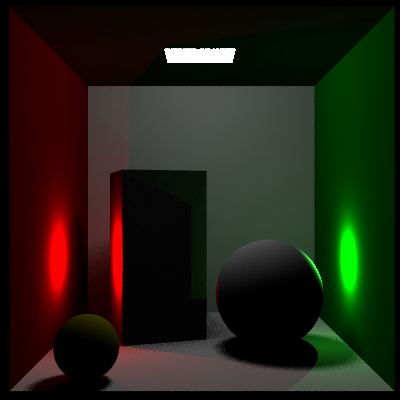
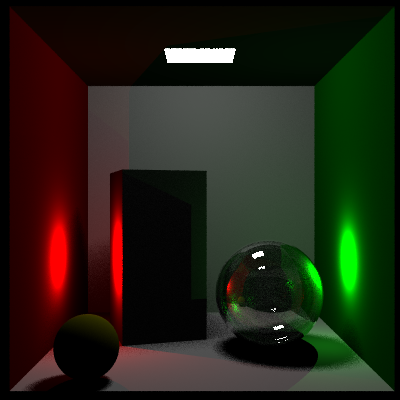
Fuzzy material added.

Changed region(s): [[0.54, 0.6, 0.81, 0.87]]

diff --git a/main/a_distributed.cpp b/main/a_distributed.cpp
@@ -18,96 +18,93 @@
 #include <rt/lights/arealight.h>
 
 #include <rt/lights/pointlight.h>
-#include <rt/groups/bvh.h>
 
 using namespace rt;
 
 namespace {
 
-void makeBox(Group* scene, const Point& aaa, const Vector& forward, const Vector& left, const Vector& up, CoordMapper* texMapper, Material* material) {
-    scene->add(new Quad(aaa, forward, left, texMapper, material));
-    scene->add(new Quad(aaa, forward, up, texMapper, material));
-    scene->add(new Quad(aaa, left, up, texMapper, material));
-    Point bbb = aaa + forward + left + up;
-    scene->add(new Quad(bbb, -forward, -left, texMapper, material));
-    scene->add(new Quad(bbb, -forward, -up, texMapper, material));
-    scene->add(new Quad(bbb, -left, -up, texMapper, material));
-}
+	void makeBox(Group* scene, const Point& aaa, const Vector& forward, const Vector& left, const Vector& up, CoordMapper* texMapper, Material* material) {
+		scene->add(new Quad(aaa, forward, left, texMapper, material));
+		scene->add(new Quad(aaa, forward, up, texMapper, material));
+		scene->add(new Quad(aaa, left, up, texMapper, material));
+		Point bbb = aaa + forward + left + up;
+		scene->add(new Quad(bbb, -forward, -left, texMapper, material));
+		scene->add(new Quad(bbb, -forward, -up, texMapper, material));
+		scene->add(new Quad(bbb, -left, -up, texMapper, material));
+	}
 
 
-void a9renderCornellbox(float scale, const char* filename, Camera* cam, Material* sphereMaterial, Material* floorMaterial, int numSamples=1) {
-    //Image img(400, 400);
-    Image img(400, 400);
-    World world;
-    // SimpleGroup* scene = new SimpleGroup();
-	BVH* scene = new BVH();
-    world.scene = scene;
+	void a9renderCornellbox(float scale, const char* filename, Camera* cam, Material* sphereMaterial, Material* floorMaterial, int numSamples = 1) {
+		Image img(400, 400);
+		World world;
+		SimpleGroup* scene = new SimpleGroup();
+		world.scene = scene;
 
-    Texture* redtex = new ConstantTexture(RGBColor(.7f,0.f,0.f));
-    Texture* greentex = new ConstantTexture(RGBColor(0.f,.7f,0.f));
-    Texture* yellowtex = new ConstantTexture(RGBColor(0.7f,.7f,0.f));
-    Texture* bluetex = new ConstantTexture(RGBColor(0.f,0.f,0.7f));
-    Texture* blacktex = new ConstantTexture(RGBColor::rep(0.0f));
-    Texture* whitetex = new ConstantTexture(RGBColor::rep(1.0f));
+		Texture* redtex = new ConstantTexture(RGBColor(.7f, 0.f, 0.f));
+		Texture* greentex = new ConstantTexture(RGBColor(0.f, .7f, 0.f));
+		Texture* yellowtex = new ConstantTexture(RGBColor(0.7f, .7f, 0.f));
+		Texture* bluetex = new ConstantTexture(RGBColor(0.f, 0.f, 0.7f));
+		Texture* blacktex = new ConstantTexture(RGBColor::rep(0.0f));
+		Texture* whitetex = new ConstantTexture(RGBColor::rep(1.0f));
 
-    Material* grey = new LambertianMaterial(blacktex, whitetex);
-    Material* yellowmat = new LambertianMaterial(blacktex, yellowtex);
-    Material* leftWallMaterial = new LambertianMaterial(blacktex, redtex);
-    Material* rightWallMaterial = new LambertianMaterial(blacktex, greentex);
-    
-    scene->add(new Quad(Point(000.f,000.f,000.f)*scale, Vector(550.f,000.f,000.f)*scale, Vector(000.f,000.f,560.f)*scale, nullptr, floorMaterial)); //floor
-    scene->add(new Quad(Point(550.f,550.f,000.f)*scale, Vector(-550.f,000.f,000.f)*scale, Vector(000.f,000.f,560.f)*scale, nullptr, grey)); //ceiling
-    scene->add(new Quad(Point(000.f,000.f,560.f)*scale, Vector(550.f,000.f,000.f)*scale, Vector(000.f,550.f,000.f)*scale, nullptr, grey)); //back wall
-    scene->add(new Quad(Point(000.f,000.f,000.f)*scale, Vector(000.f,000.f,560.f)*scale, Vector(000.f,550.f,000.f)*scale, nullptr, rightWallMaterial)); //right wall
-    scene->add(new Quad(Point(550.f,550.f,000.f)*scale, Vector(000.f,000.f,560.f)*scale, Vector(000.f,-550.f,000.f)*scale, nullptr, leftWallMaterial)); //left wall
+		Material* grey = new LambertianMaterial(blacktex, whitetex);
+		Material* yellowmat = new LambertianMaterial(blacktex, yellowtex);
+		Material* leftWallMaterial = new LambertianMaterial(blacktex, redtex);
+		Material* rightWallMaterial = new LambertianMaterial(blacktex, greentex);
 
-    scene->add(new Sphere(Point(150.0f, 100.0f, 240.0f)*scale, 99.0f*scale, nullptr, sphereMaterial));
-    scene->add(new Sphere(Point(450.0f, 50.0f, 50.0f)*scale, 49.0f*scale, nullptr, yellowmat));
 
-    //tall box
-    makeBox(scene, Point(265.f, 000.1f, 296.f)*scale, Vector(158.f, 000.f, -049.f)*scale, Vector(049.f, 000.f, 160.f)*scale, Vector(000.f, 330.f, 000.f)*scale, nullptr, grey);
 
-    //Lights
-    ConstantTexture* lightsrctex = new ConstantTexture(RGBColor::rep(25.0f));
-    Material* lightsource = new LambertianMaterial(lightsrctex, blacktex);
 
-    Quad* light = new Quad(Point(213*scale,549.99f*scale,227*scale), Vector(130*scale,0,0), Vector(0,0,105*scale), nullptr, lightsource);
-    AreaLight als(light);
-    world.light.push_back(&als);
-    scene->add(light);
-	//point light
-    world.light.push_back(new PointLight(Point(490*scale,159.99f*scale,279.5f*scale),RGBColor(40000.0f*scale*scale,0,0)));
-    world.light.push_back(new PointLight(Point(40*scale,159.99f*scale,249.5f*scale),RGBColor(5000.0f*scale*scale,30000.0f*scale*scale,5000.0f*scale*scale)));
-	scene->rebuildIndex();
+		scene->add(new Quad(Point(000.f, 000.f, 000.f)*scale, Vector(550.f, 000.f, 000.f)*scale, Vector(000.f, 000.f, 560.f)*scale, nullptr, floorMaterial)); //floor
+		scene->add(new Quad(Point(550.f, 550.f, 000.f)*scale, Vector(-550.f, 000.f, 000.f)*scale, Vector(000.f, 000.f, 560.f)*scale, nullptr, grey)); //ceiling
+		scene->add(new Quad(Point(000.f, 000.f, 560.f)*scale, Vector(550.f, 000.f, 000.f)*scale, Vector(000.f, 550.f, 000.f)*scale, nullptr, grey)); //back wall
+		scene->add(new Quad(Point(000.f, 000.f, 000.f)*scale, Vector(000.f, 000.f, 560.f)*scale, Vector(000.f, 550.f, 000.f)*scale, nullptr, rightWallMaterial)); //right wall
+		scene->add(new Quad(Point(550.f, 550.f, 000.f)*scale, Vector(000.f, 000.f, 560.f)*scale, Vector(000.f, -550.f, 000.f)*scale, nullptr, leftWallMaterial)); //left wall
 
-    RecursiveRayTracingIntegrator integrator(&world);
+		scene->add(new Sphere(Point(150.0f, 100.0f, 240.0f)*scale, 99.0f*scale, nullptr, sphereMaterial));
+		scene->add(new Sphere(Point(450.0f, 50.0f, 50.0f)*scale, 49.0f*scale, nullptr, yellowmat));
 
-    Renderer engine(cam, &integrator);
-    if (numSamples>1)
-        engine.setSamples(numSamples);
-    engine.render(img);
-    img.writePNG(filename);
-}
+		//tall box
+		makeBox(scene, Point(265.f, 000.1f, 296.f)*scale, Vector(158.f, 000.f, -049.f)*scale, Vector(049.f, 000.f, 160.f)*scale, Vector(000.f, 330.f, 000.f)*scale, nullptr, grey);
+
+		//Lights
+		ConstantTexture* lightsrctex = new ConstantTexture(RGBColor::rep(25.0f));
+		Material* lightsource = new LambertianMaterial(lightsrctex, blacktex);
+
+		Quad* light = new Quad(Point(213 * scale, 549.99f*scale, 227 * scale), Vector(130 * scale, 0, 0), Vector(0, 0, 105 * scale), nullptr, lightsource);
+		AreaLight als(light);
+		world.light.push_back(&als);
+		scene->add(light);
+
+		//point light
+		world.light.push_back(new PointLight(Point(490 * scale, 159.99f*scale, 279.5f*scale), RGBColor(40000.0f*scale*scale, 0, 0)));
+		world.light.push_back(new PointLight(Point(40 * scale, 159.99f*scale, 249.5f*scale), RGBColor(5000.0f*scale*scale, 30000.0f*scale*scale, 5000.0f*scale*scale)));
+
+		RecursiveRayTracingIntegrator integrator(&world);
+
+		Renderer engine(cam, &integrator);
+		if (numSamples>1)
+			engine.setSamples(numSamples);
+		engine.render(img);
+		img.writePNG(filename);
+	}
 
 }
 
 void a_distributed() {
-    PerspectiveCamera* cam = new PerspectiveCamera(Point(0.278f, 0.273f, -0.800f), Vector(0, 0, 1), Vector(0, 1, 0), 0.686f, 0.686f);
-    DOFPerspectiveCamera* dofcam = new DOFPerspectiveCamera(Point(0.278f, 0.273f, -0.8f), Vector(0, 0, 1), Vector(0, 1, 0), 0.686f, 0.686f, 1.025f, 0.045f);
+	PerspectiveCamera* cam = new PerspectiveCamera(Point(0.278f, 0.273f, -0.800f), Vector(0, 0, 1), Vector(0, 1, 0), 0.686f, 0.686f);
+	DOFPerspectiveCamera* dofcam = new DOFPerspectiveCamera(Point(0.278f, 0.273f, -0.8f), Vector(0, 0, 1), Vector(0, 1, 0), 0.686f, 0.686f, 1.025f, 0.045f);
 
-    Texture* blacktex = new ConstantTexture(RGBColor::rep(0.0f));
-    Texture* whitetex = new ConstantTexture(RGBColor::rep(1.0f));
-    Material* floorMaterial1 = new LambertianMaterial(blacktex, whitetex);
-    // Material* floorMaterial2 = new FuzzyMirrorMaterial(2.485f, 3.433f, 0.05f);
+	Texture* blacktex = new ConstantTexture(RGBColor::rep(0.0f));
+	Texture* whitetex = new ConstantTexture(RGBColor::rep(1.0f));
+	Material* floorMaterial1 = new LambertianMaterial(blacktex, whitetex);
+	Material* floorMaterial2 = new FuzzyMirrorMaterial(2.485f, 3.433f, 0.05f);
 
-    Material* sphereMaterial1 = floorMaterial1;
-    Material* sphereMaterial2 = new GlassMaterial(2.0f);
+	Material* sphereMaterial1 = floorMaterial1;
+	Material* sphereMaterial2 = new GlassMaterial(2.0f);
 
-
-    //a9renderCornellbox(0.001f, "a9-1.png", cam, sphereMaterial1, floorMaterial1, 30);
-    // /a9renderCornellbox(0.001f, "a9-2.png", cam, sphereMaterial2, floorMaterial2, 30);
-    a9renderCornellbox(0.001f, "a9-3.png", dofcam, sphereMaterial1, floorMaterial1, 30);
-
-    //a9renderCornellbox(0.001f, "a9-3.png", dofcam, sphereMaterial2, floorMaterial2, 30);
-    // a9renderCornellbox(0.001f, "a9-4.png", dofcam, sphereMaterial2, floorMaterial2, 1000);
+	a9renderCornellbox(0.001f, "a9-1.png", cam, sphereMaterial1, floorMaterial1, 30);
+	a9renderCornellbox(0.001f, "a9-2.png", cam, sphereMaterial2, floorMaterial2, 30);
+	a9renderCornellbox(0.001f, "a9-3.png", dofcam, sphereMaterial2, floorMaterial2, 30);
+	a9renderCornellbox(0.001f, "a9-4.png", dofcam, sphereMaterial2, floorMaterial2, 1000);
 }

diff --git a/rt/materials/fuzzymirror.cpp b/rt/materials/fuzzymirror.cpp
@@ -1,0 +1,56 @@
+#include "fuzzymirror.h"
+#include <core/scalar.h>
+#include <core/random.h>
+
+namespace rt
+{
+	FuzzyMirrorMaterial::FuzzyMirrorMaterial(float eta, float kappa, float fuzzyangle)
+	{
+		this->eta = eta;
+		this->kappa = kappa;
+		this->fuzzyangle = fuzzyangle;
+	}
+
+	RGBColor FuzzyMirrorMaterial::getReflectance(const Point & texPoint, const Vector & normal, const Vector & outDir, const Vector & inDir) const
+	{
+		float cosTheta = dot(normal.normalize(), inDir.normalize());
+		float rParallelSq = ((eta*eta + kappa*kappa) * cosTheta*cosTheta - 2 * eta*cosTheta + 1) / ((eta*eta + kappa*kappa) * cosTheta*cosTheta + 2 * eta*cosTheta + 1);
+		float rPerpendicularSq = ((eta*eta + kappa*kappa) - 2 * eta*cosTheta + cosTheta*cosTheta) / ((eta*eta + kappa*kappa) + 2 * eta*cosTheta + cosTheta*cosTheta);
+		float Fr = 0.5f * (rParallelSq + rPerpendicularSq);
+		return RGBColor(Fr, Fr, Fr); //grayscale
+	}
+
+	RGBColor FuzzyMirrorMaterial::getEmission(const Point & texPoint, const Vector & normal, const Vector & outDir) const
+	{
+		return RGBColor(0, 0, 0);
+	}
+
+	SampleReflectance FuzzyMirrorMaterial::getSampleReflectance(const Point & texPoint, const Vector & normal, const Vector & outDir) const
+	{
+		Vector xSpanningVector = Vector(1, 0, 0);
+		Vector ySpanningVector = Vector(0, 1, 0);
+		if (std::abs(dot(xSpanningVector, normal)) != 1)
+		{
+			ySpanningVector = cross(normal, xSpanningVector).normalize();
+			xSpanningVector = cross(ySpanningVector, normal).normalize();
+		}
+		else
+		{
+			xSpanningVector = cross(ySpanningVector, normal).normalize();
+			ySpanningVector = cross(normal, xSpanningVector).normalize();
+		}
+
+
+		float theta = random() * 2 * pi;
+		float maximumRadius = tanf(fuzzyangle);
+		float r = random() * maximumRadius;
+		float x_polar = std::cos(theta) * r;
+		float y_polar = std::sin(theta) * r;
+
+		float dotP = dot(outDir, normal);
+		Vector dir = (outDir - 2 * dotP * normal + xSpanningVector * x_polar + ySpanningVector * y_polar).normalize();
+		RGBColor color = getReflectance(texPoint, normal, outDir, dir);
+		return SampleReflectance(dir, color);
+	}
+
+}

diff --git a/rt/integrators/recraytrace.cpp b/rt/integrators/recraytrace.cpp
@@ -57,11 +57,11 @@ namespace rt
 			{
 				auto reflectance = currentMaterial->getSampleReflectance(texturePoint, normal, outDirFlipped);
 				Vector inDir = reflectance.direction.normalize();
-				float dot1 = dot(ray.d, inDir);
-				float dot2 = dot(ray.d, normal);
 
+
+				float dotP = dot(normal, inDir);
 				int signOfEpsilon = 1;
-				if (dot1 > 0 && dot2 < 0)
+				if (dotP < 0)
 				{
 					signOfEpsilon = -1;
 				}

diff --git a/rt/materials/fuzzymirror.h b/rt/materials/fuzzymirror.h
@@ -12,6 +12,9 @@ public:
     virtual RGBColor getEmission(const Point& texPoint, const Vector& normal, const Vector& outDir) const;
     virtual SampleReflectance getSampleReflectance(const Point& texPoint, const Vector& normal, const Vector& outDir) const;
     virtual Sampling useSampling() const { return Material::SAMPLING_ALL; }
+
+private:
+	float eta, kappa, fuzzyangle;
 };
 
 }

diff --git a/rt/cameras/dofperspective.cpp b/rt/cameras/dofperspective.cpp
@@ -34,7 +34,7 @@ namespace rt
 
         Point shiftedCenter = center + x_polar * spanningH.normalize() + y_polar * spanningV.normalize();
 
-        Vector shiftedDirection = focalPoint - shiftedCenter;
+        Vector shiftedDirection = focalPoint - shiftedCenter; 
         return Ray(shiftedCenter, shiftedDirection.normalize());
     }
 
